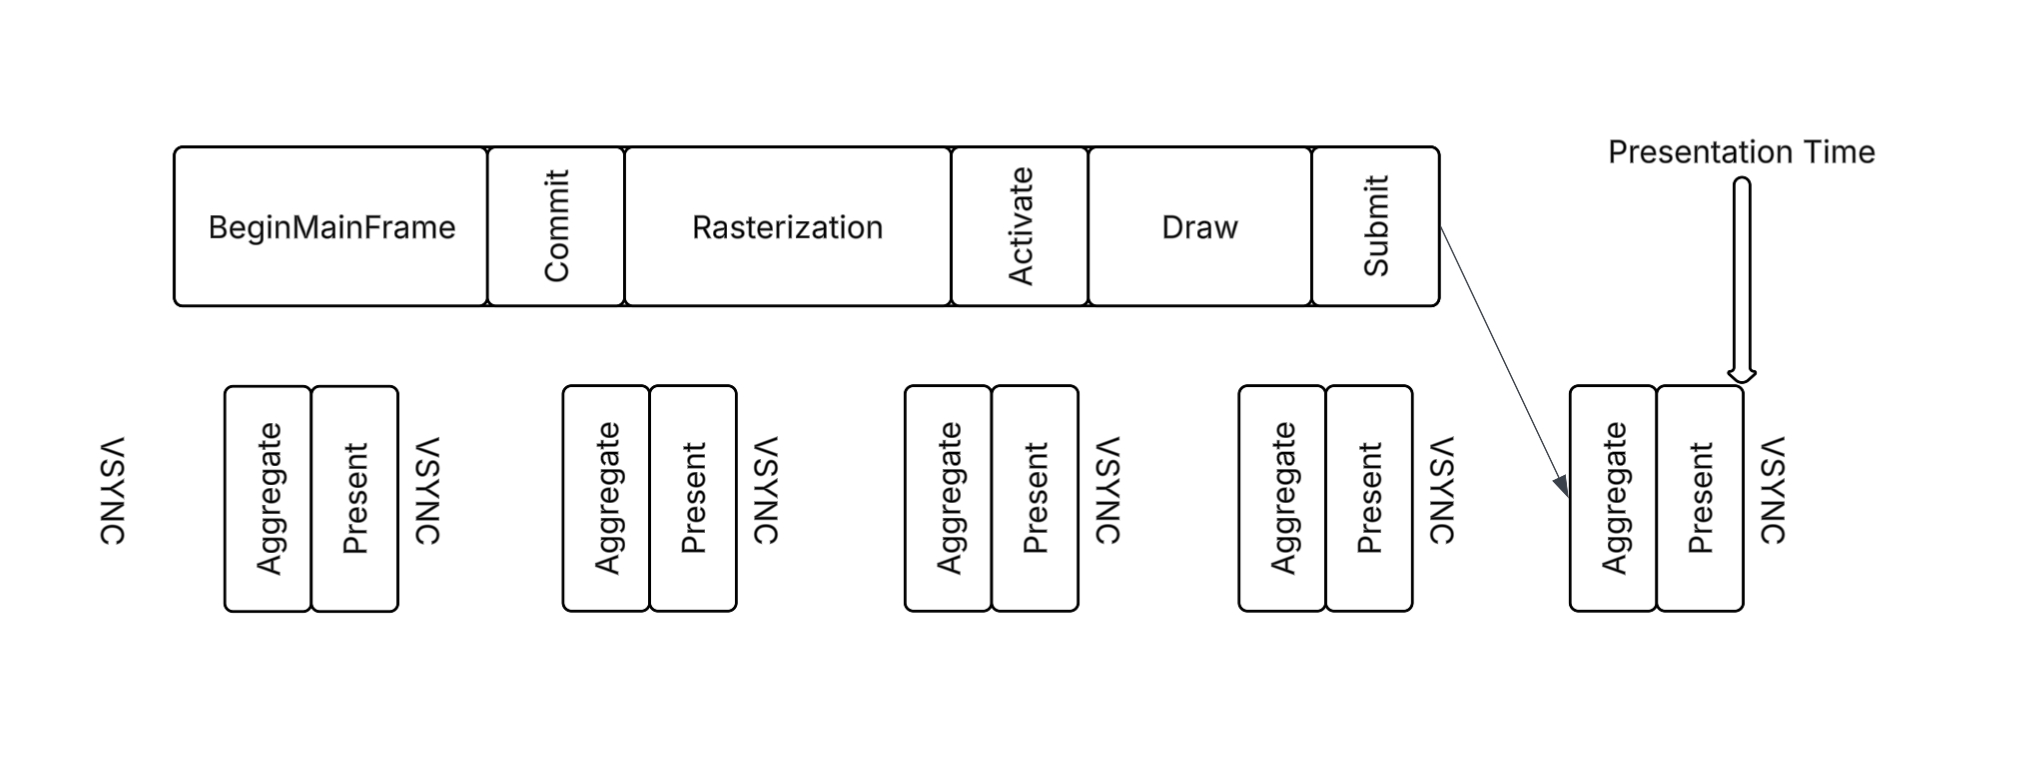
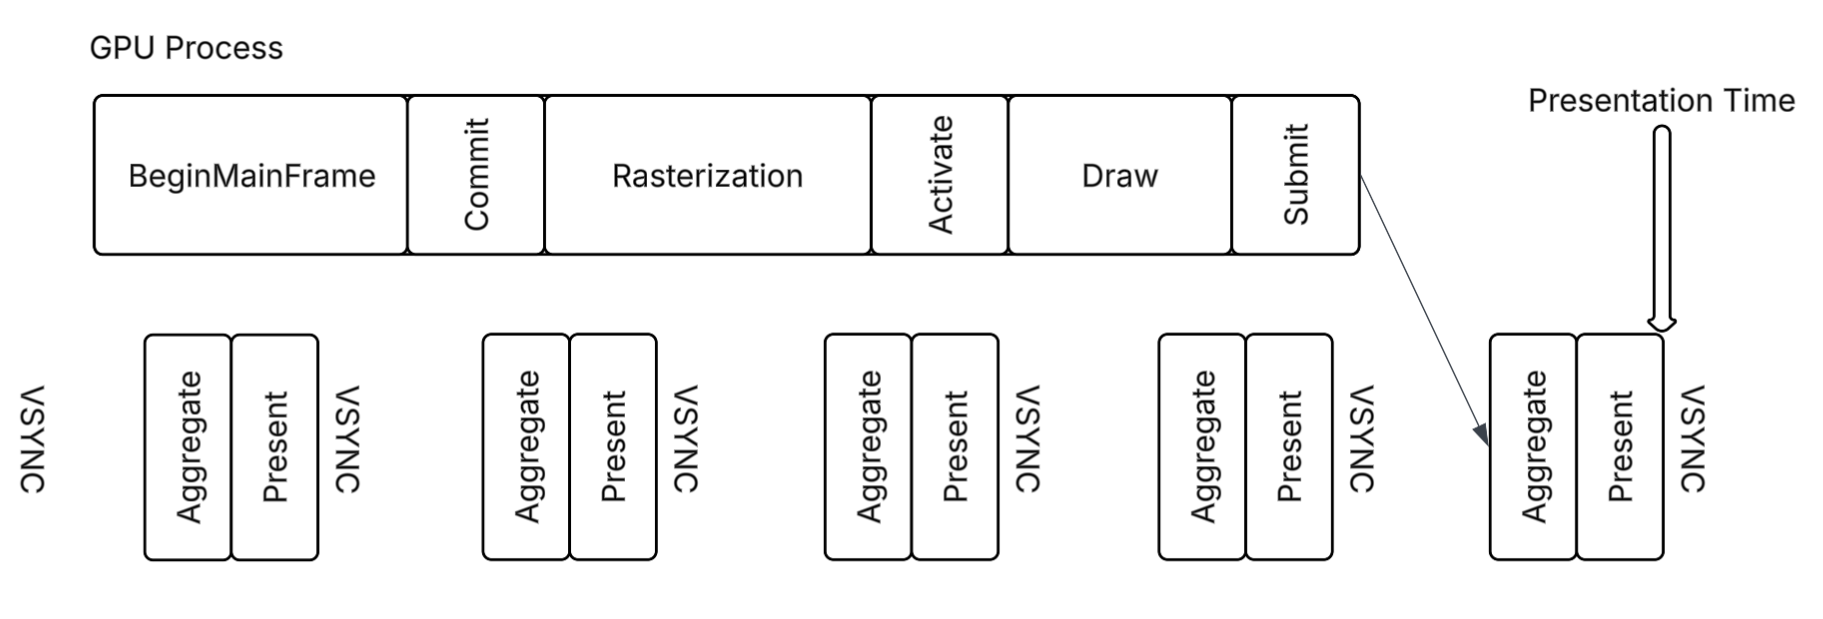
Update the diagram and note it's chromium specific thing just for reference

diff --git a/performanceMarkPaintTime/explainer.md b/performanceMarkPaintTime/explainer.md
@@ -1,6 +1,6 @@
 # performance.markPaintTime() Explainer
 
-Author:  [Wangsong Jin](https://github.com/JosephJin0815) - Engineer at Microsoft Edge, [Andy Luhrs](https://github.com/aluhrs13)
+Author:  [Wangsong Jin](https://github.com/JosephJin0815), [Andy Luhrs](https://github.com/aluhrs13)
 
 ## Status of this Document
 
@@ -63,7 +63,7 @@ Without an on-demand API, developers resort to workarounds like double-rAF or rA
 </html>
 ```
 
-Since `requestAnimationFrame` fires before the browser paints, the recorded timestamp is earlier than when the content is actually rendered. It is better than logging at the moment of the DOM update, but still only an approximation.
+Since `requestAnimationFrame` callbacks run before the style and layout, the recorded timestamp is earlier than when the content is actually rendered. It is better than logging at the moment of the DOM update, but still only an approximation.
 
 ### Double requestAnimationFrame
 
@@ -165,7 +165,9 @@ The entry reuses [`PaintTimingMixin`](https://w3c.github.io/paint-timing/#sec-Pe
 
 ### paintTime
 
-`paintTime` is the rendering update end time, captured after style recalculation and layout. This is the same timestamp that FP/FCP/LCP use via [PaintTimingMixin](https://w3c.github.io/paint-timing/#sec-PerformancePaintTiming), defined at [step 11.14.21 of the event loop](https://html.spec.whatwg.org/multipage/webappapis.html#event-loop-processing-model).
+`paintTime` is the rendering update end time, captured after style and layout. This is the same timestamp that FP/FCP/LCP use via [PaintTimingMixin](https://w3c.github.io/paint-timing/#sec-PerformancePaintTiming), defined at [step 11.14.21 of the event loop](https://html.spec.whatwg.org/multipage/webappapis.html#event-loop-processing-model).
+
+*Note: Below diagram illustrates the Chromium rendering architecture. Other browser engines may have a different pipeline structure, but the spec-defined timing semantics remain the same.*
 
 ![paintTime in the rendering pipeline](paint-time-pipeline.png)
 
@@ -173,13 +175,14 @@ The entry reuses [`PaintTimingMixin`](https://w3c.github.io/paint-timing/#sec-Pe
 
 `presentationTime` is the implementation-defined time when the composited frame is presented to the display.
 
-![presentationTime in the rendering pipeline](presentation-time-pipeline.png)
+*Note: Below diagram uses Chromium's architecture as an example. Other browser engines may structure this differently, but `presentationTime` refers to the moment the composited frame is presented to the display.*
+![presentationTime in the path from rendering to display](presentation-time-pipeline.png)
 
 ### What developers can measure
 
-- **`startTime`**: `performance.now()` at the time `markPaintTime()` is called.
-- **`paintTime - startTime`** = time from the `markPaintTime()` call to the end of the rendering update
-- **`presentationTime - startTime`** (when `presentationTime` is non-null) = end-to-end visual latency (how long until the user actually sees the update)
+- **`startTime`**: Defaults to `performance.now()` at the time `markPaintTime()` is called, but developers can optionally provide a custom value to mark a meaningful start point (e.g., an event timestamp from a `click` or `input` event, or a timestamp captured at the start of a state change).
+- **`paintTime - startTime`** = time from the `markPaintTime()` call to the end of the rendering update.
+- **`presentationTime - startTime`** (when `presentationTime` is non-null) = end-to-end visual latency (how long until the user actually sees the update).
 - **`presentationTime - paintTime`** (when `presentationTime` is non-null) = pipeline cost from rendering update to display (includes paint, compositing, and GPU presentation). This is less in the developer's control, but can help them understand if they're in an extreme scenario where an outside factor impacted their performance.
 
 ## Key Design Decisions
